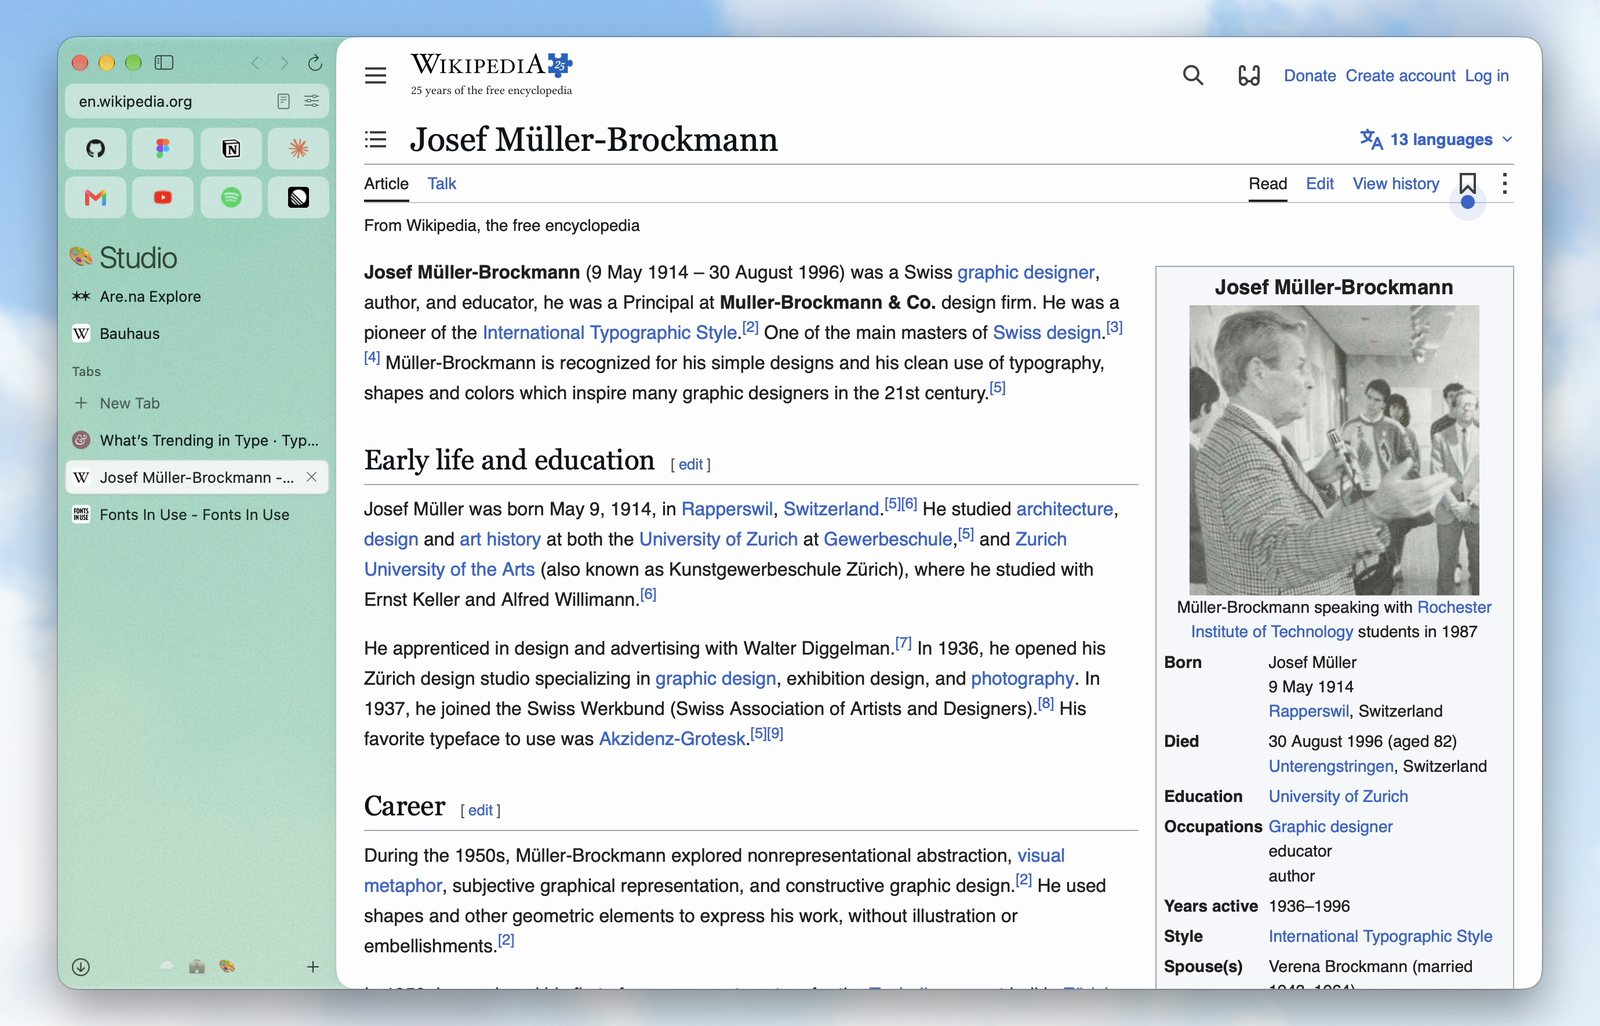
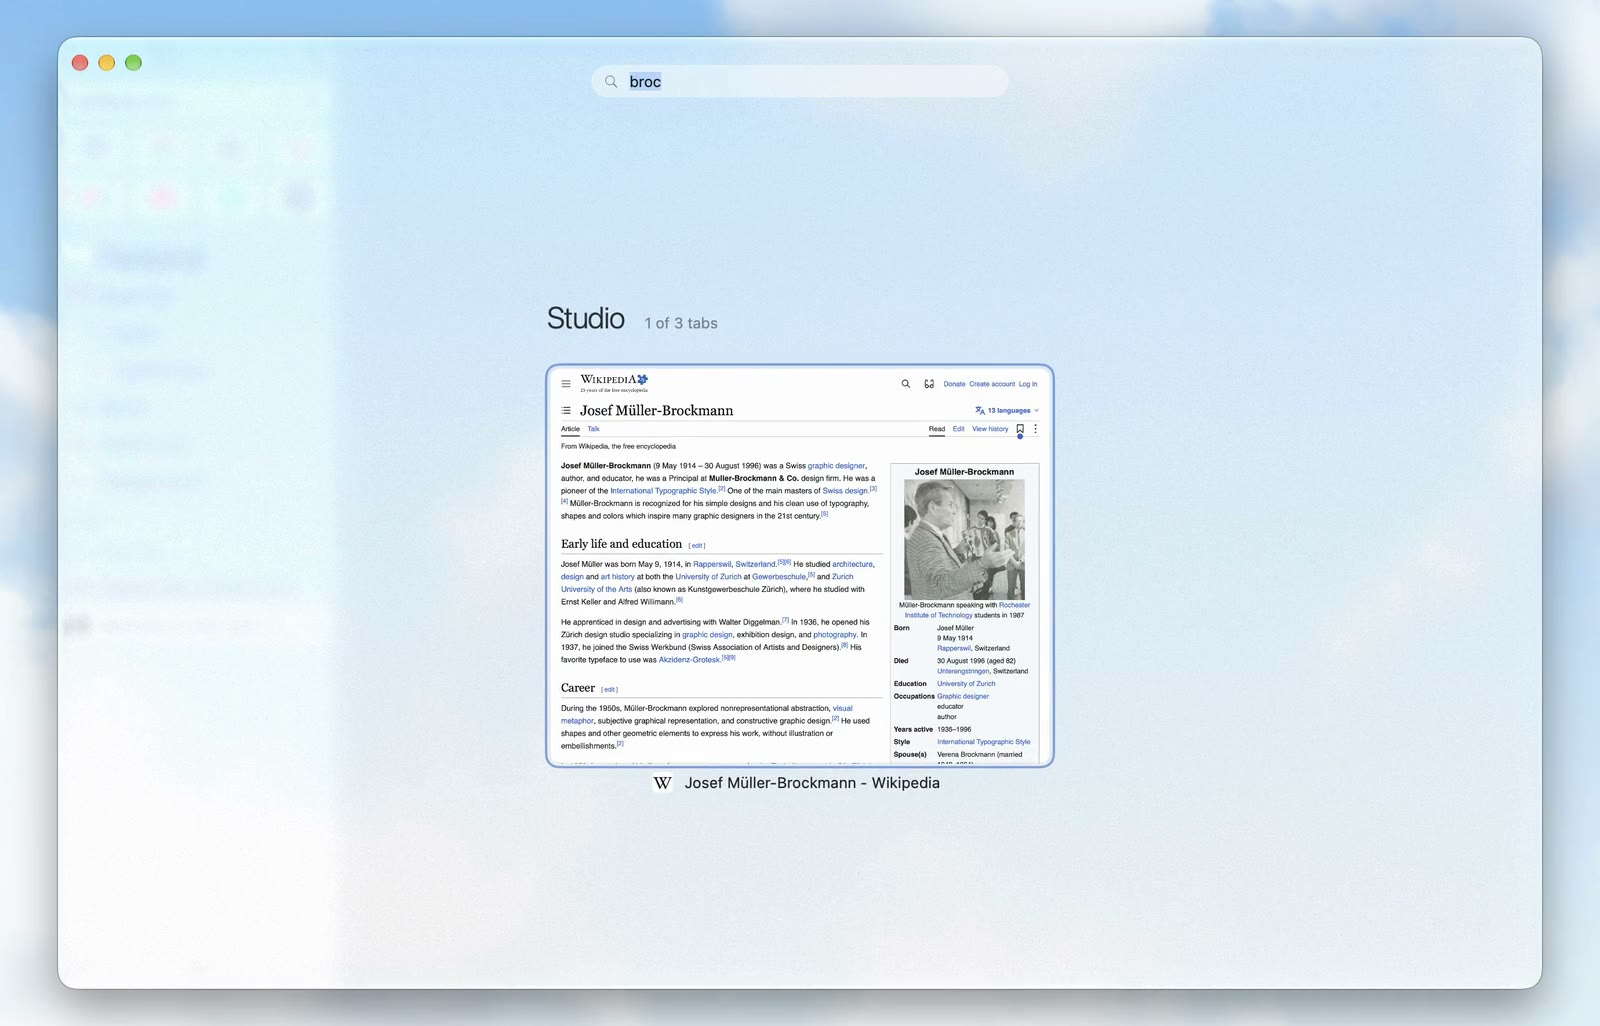
fix: the every tab clip's still shows the tab overview

diff --git a/site/index.html b/site/index.html
@@ -63,7 +63,7 @@
         <p><b>Translation</b> Whole pages, with Apple’s on-device Translation.</p>
         <p><b>And</b> PDFs, full-page screenshots, picture in picture and private windows.</p>
       </div>
-      <figure class="tile half"><video src="/assets/clips/desk.mp4?v=1795600000" poster="/assets/clips/desk.jpg?v=1795600000" muted loop playsinline preload="none" aria-label="Every tab across Personal, Work and Studio shown as cards, filtered by typing brock, and Josef Müller-Brockmann’s page opened in Studio."></video><figcaption><b>Every tab at once</b> ⇧⌘\ shows every space. Type to filter.</figcaption></figure>
+      <figure class="tile half"><video src="/assets/clips/desk.mp4?v=1795600000" poster="/assets/clips/desk.jpg?v=1796200000" muted loop playsinline preload="none" aria-label="Every tab across Personal, Work and Studio shown as cards, filtered by typing brock, and Josef Müller-Brockmann’s page opened in Studio."></video><figcaption><b>Every tab at once</b> ⇧⌘\ shows every space. Type to filter.</figcaption></figure>
       <figure class="tile half"><video src="/assets/clips/reader.mp4?v=1795600000" poster="/assets/clips/reader.jpg?v=1795600000" muted loop playsinline preload="none" aria-label="An essay on Veronese’s dogs from The Public Domain Review opened in Reader, and scrolled past its paintings."></video><figcaption><b>Reader</b> One click turns a long essay into calm, clear type.</figcaption></figure>
     </div>
   </section>
